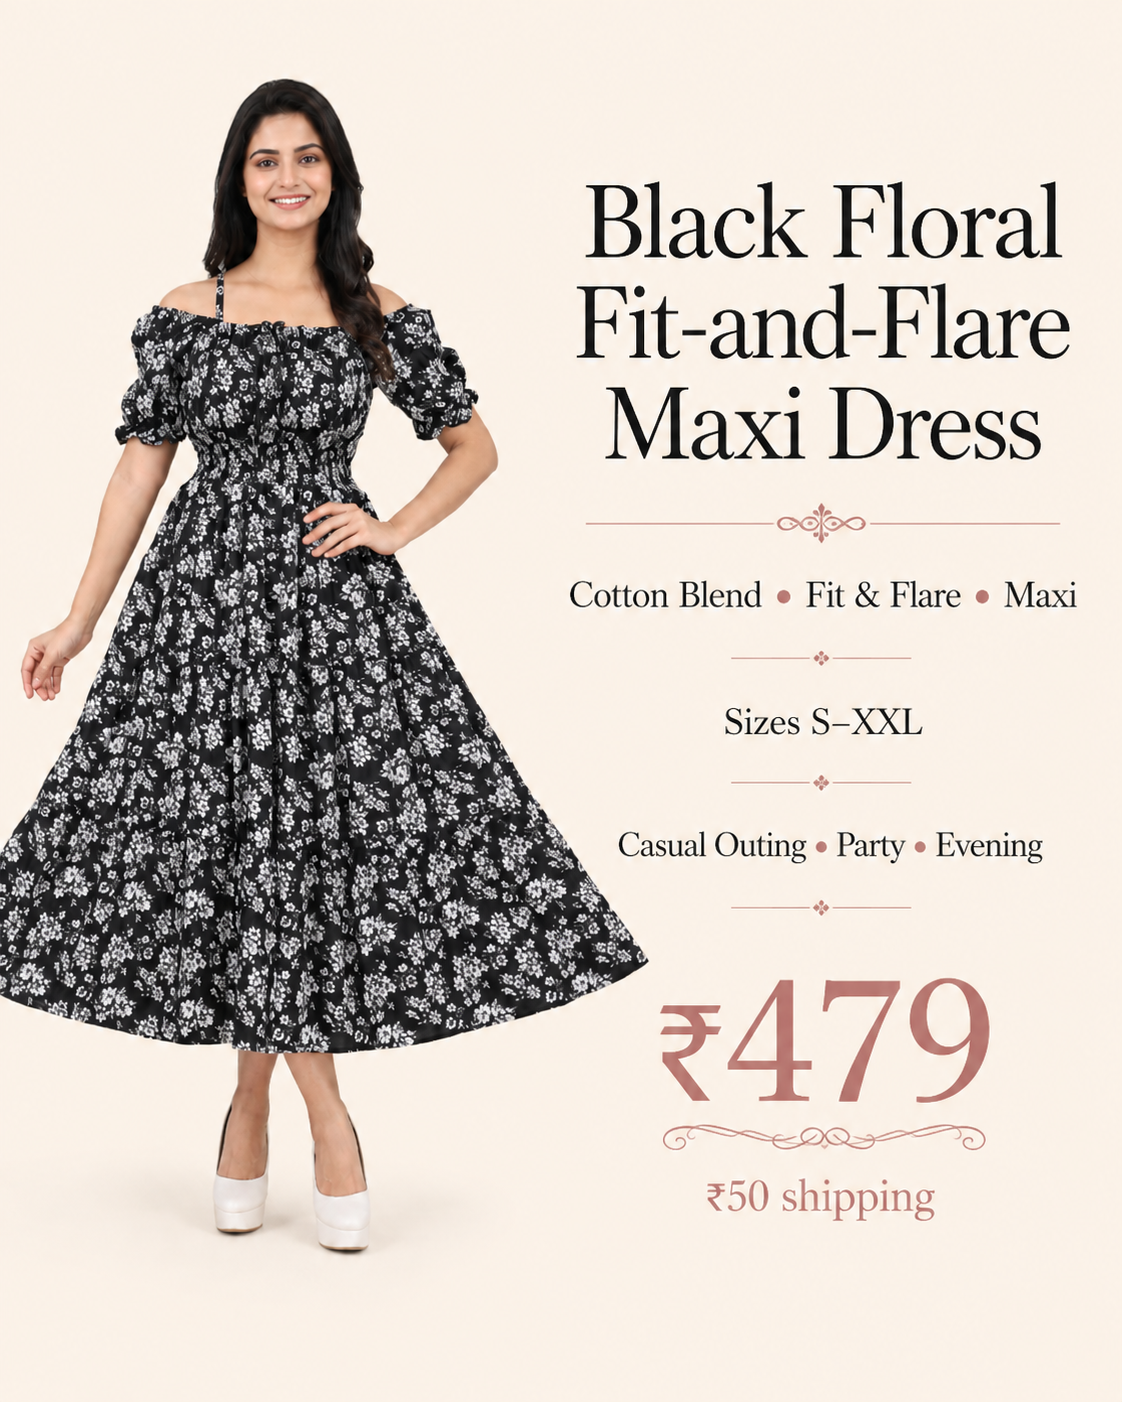
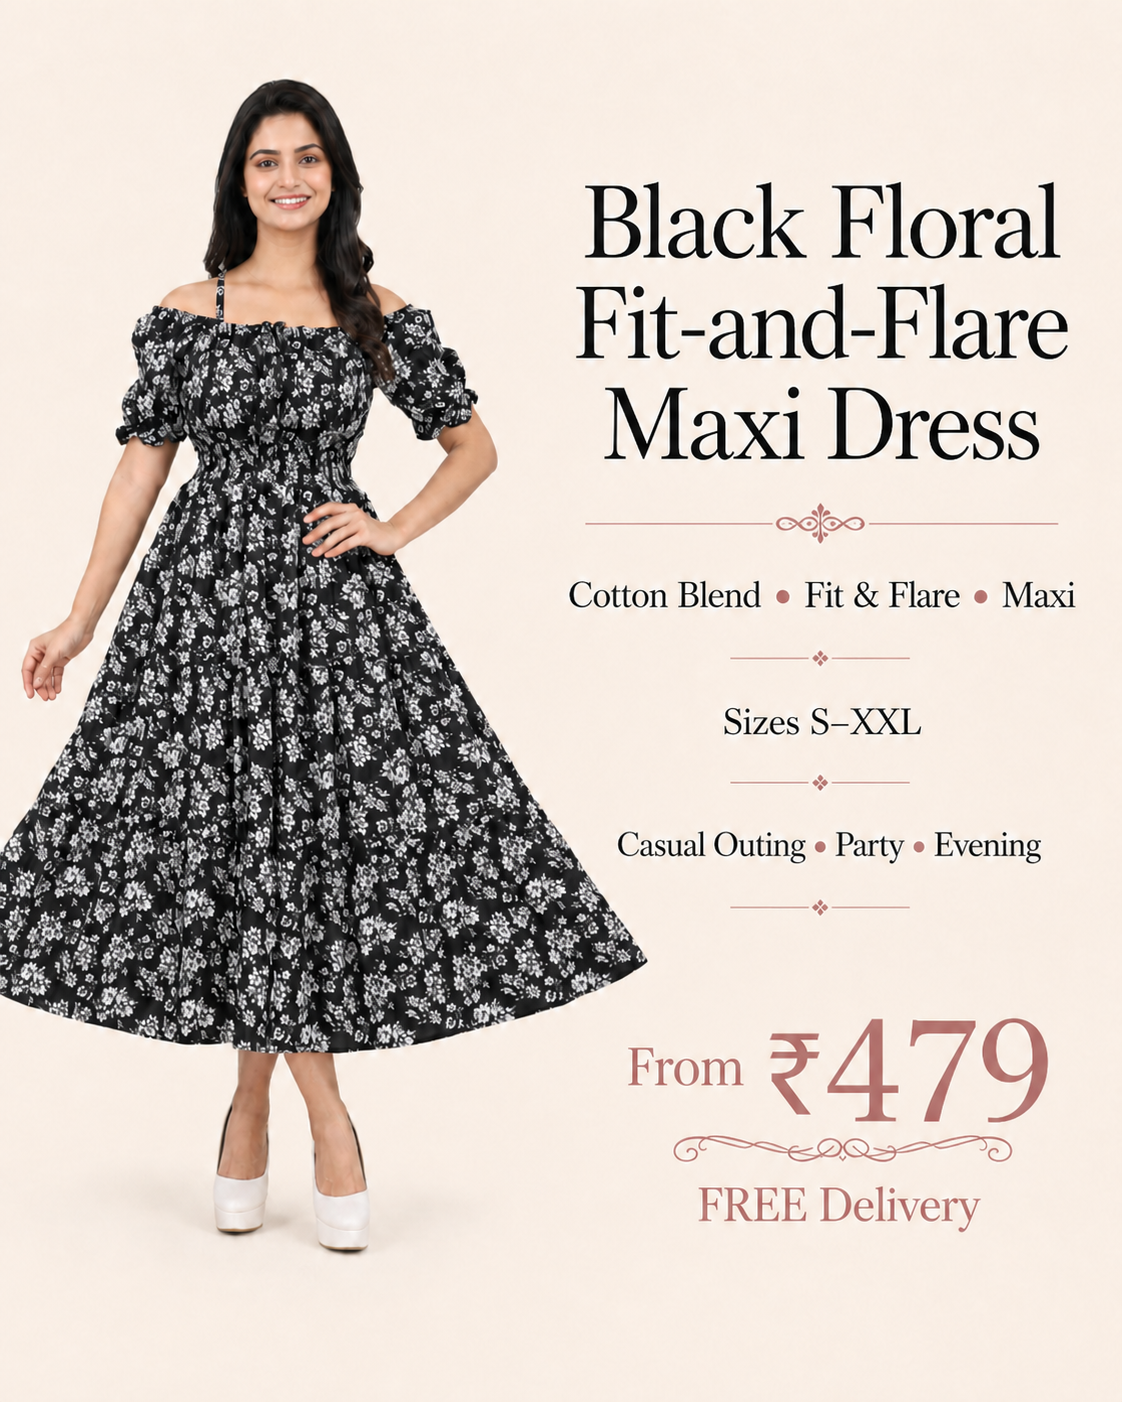
Verify Product 8 source and size pricing

diff --git a/lib/products.ts b/lib/products.ts
@@ -10,7 +10,7 @@ export const products:Product[]=[
 {id:"MSH-GWN-005",slug:"purple-sequin-embroidered-anarkali",name:"Purple Sequin-Embroidered Anarkali",category:"Gowns",collection:"Wedding & Festive",occasion:"Evening party",sellingPrice:832,images:imageSet("MSH-GWN-005"),sizes:["S","M","L","XL","XXL","3XL","4XL","5XL"],material:"Cotton Blend",colour:"Purple",description:"A generous ankle-length Anarkali with delicate sequin accents.",bestSeller:true},
 {id:"MSH-GWN-006",slug:"ivory-floral-rayon-flared-gown",name:"Ivory Floral Rayon Flared Gown",category:"Gowns",collection:"Day Occasion",occasion:"Brunch",sellingPrice:690,images:imageSet("MSH-GWN-006"),sizes:["S","M","L","XL","XXL","3XL","4XL","5XL"],material:"Rayon",colour:"Ivory",description:"A light floral gown with a sweeping ankle-length flare.",newArrival:true},
 {id:"MSH-WES-007",slug:"pink-tiered-georgette-maxi-dress",name:"Pink Tiered Georgette Maxi Dress",category:"Dresses",collection:"Party & Brunch",occasion:"Party / brunch",sellingPrice:676,images:imageSet("MSH-WES-007"),sizes:["S","M","L","XL","XXL"],variants:[{sku:"MSH-WES-007-S",size:"S",colour:"Pink floral",price:676,available:true},{sku:"MSH-WES-007-M",size:"M",colour:"Pink floral",price:676,available:true},{sku:"MSH-WES-007-L",size:"L",colour:"Pink floral",price:676,available:true},{sku:"MSH-WES-007-XL",size:"XL",colour:"Pink floral",price:676,available:true},{sku:"MSH-WES-007-XXL",size:"XXL",colour:"Pink floral",price:676,available:true}],material:"Georgette",colour:"Pink floral",description:"A pink floral georgette maxi dress with a square neckline, shirred bodice, short puff sleeves and tiered ruffle skirt.",featured:true,bestSeller:true},
-{id:"MSH-WES-008",slug:"black-floral-fit-and-flare-maxi-dress",name:"Black Floral Fit-and-Flare Maxi Dress",category:"Dresses",collection:"Casual Western",occasion:"Evening",sellingPrice:679,images:imageSet("MSH-WES-008"),sizes:["S","M","L","XL","XXL"],material:"Cotton Blend",colour:"Black",description:"A fitted bodice and flowing floral skirt for casual plans and parties.",bestSeller:true},
+{id:"MSH-WES-008",slug:"black-floral-fit-and-flare-maxi-dress",name:"Black Floral Fit-and-Flare Maxi Dress",category:"Dresses",collection:"Casual Western",occasion:"Casual / party",sellingPrice:479,images:imageSet("MSH-WES-008"),sizes:["S","M","L","XL","XXL"],variants:[{sku:"MSH-WES-008-S",size:"S",colour:"Black with white floral print",price:489,available:true},{sku:"MSH-WES-008-M",size:"M",colour:"Black with white floral print",price:479,available:true},{sku:"MSH-WES-008-L",size:"L",colour:"Black with white floral print",price:489,available:true},{sku:"MSH-WES-008-XL",size:"XL",colour:"Black with white floral print",price:489,available:true},{sku:"MSH-WES-008-XXL",size:"XXL",colour:"Black with white floral print",price:489,available:true}],material:"Cotton Blend",colour:"Black with white floral print",description:"A black cotton-blend fit-and-flare maxi with tiny white florals, slim straps, an off-shoulder gathered neckline, short puff sleeves and a smocked waist.",bestSeller:true},
 {id:"MSH-WES-009",slug:"white-floral-puff-sleeve-mini-dress",name:"White Floral Puff-Sleeve Mini Dress",category:"Dresses",collection:"College & Casual",occasion:"Casual party",sellingPrice:758,images:imageSet("MSH-WES-009"),sizes:["S","M","L","XL"],material:"Rayon",colour:"White",description:"A playful floral mini with puff sleeves and a softly flared shape.",newArrival:true},
 {id:"MSH-WES-010",slug:"lemon-yellow-bodycon-midi-dress",name:"Lemon Yellow Bodycon Midi Dress",category:"Dresses",collection:"Evening Party",occasion:"Date night",sellingPrice:837,images:imageSet("MSH-WES-010"),sizes:["XS","S","M","L","XL"],material:"Lycra",colour:"Lemon Yellow",description:"A clean bodycon midi with a square neckline and front slit."},
 {id:"MSH-EXP-011",slug:"sky-blue-cotton-kurta-pant-set",name:"Sky Blue Cotton Kurta & Pant Set",category:"Kurta Sets",collection:"Everyday Ethnic",occasion:"Office edit",sellingPrice:685,images:imageSet("MSH-EXP-011"),sizes:["M","L","XL","XXL","3XL"],material:"Cotton",colour:"Sky Blue",description:"A breathable sky-blue cotton kurta and pant pairing for everyday office, college and casual wear.",newArrival:true},

diff --git a/lib/internal-pricing.server.ts b/lib/internal-pricing.server.ts
@@ -15,7 +15,9 @@ export const sourceCostsBySku: Record<string, number> = {
   "MSH-GWN-005": 632, "MSH-GWN-006": 490,
   "MSH-WES-007-S": 476, "MSH-WES-007-M": 476, "MSH-WES-007-L": 476,
   "MSH-WES-007-XL": 476, "MSH-WES-007-XXL": 476,
-  "MSH-WES-008": 479, "MSH-WES-009": 558, "MSH-WES-010": 637,
+  "MSH-WES-008-S": 289, "MSH-WES-008-M": 279, "MSH-WES-008-L": 289,
+  "MSH-WES-008-XL": 289, "MSH-WES-008-XXL": 289,
+  "MSH-WES-009": 558, "MSH-WES-010": 637,
   "MSH-EXP-011": 485, "MSH-EXP-012": 588, "MSH-EXP-013": 526, "MSH-EXP-014": 679,
   "MSH-EXP-016-XS": 480, "MSH-EXP-016-S": 490, "MSH-EXP-016-M": 490,
   "MSH-EXP-016-L": 490, "MSH-EXP-016-XL": 490, "MSH-EXP-016-XXL": 490, "MSH-EXP-016-XXXL": 490,

diff --git a/data/catalogue-changelog.md b/data/catalogue-changelog.md
@@ -1,5 +1,13 @@
 # Catalogue changelog
 
+## 2026-08-31 — Product 8 exact source verified
+
+- Matched MSH-WES-008 to the current Meesho listing `/p/71w5ym`. Source-image comparison confirmed the black cotton-blend fabric with tiny white florals, slim straps, off-shoulder gathered neckline, short puff sleeves, smocked waist and full maxi flare.
+- Captured seller `DULHAN SAREE`, 4.2 product rating, 11,114 reviews, 7-day returns and active S–XXL availability. Source prices are ₹279 for M and ₹289 for S/L/XL/XXL; retail prices are ₹479 and ₹489 respectively under the source-plus-₹200 rule.
+- Replaced the stale information card that showed ₹479 as a single price and ₹50 shipping with `From ₹479` and `FREE Delivery`.
+- Local browser QA passed: M displayed ₹479, S displayed and added at ₹489, the cart total remained ₹489 with FREE delivery, and COD was selected at checkout. A 390px check showed no page-level horizontal overflow and zero broken images.
+- Product 8 is marked `Approved`; production and Meta readiness remain blocked until staged database deployment and live verification pass.
+
 ## 2026-08-31 — Product 10 source search logged
 
 - Reconfirmed MSH-WES-010 from its canonical image set as a solid lemon-yellow sleeveless bodycon midi/maxi dress with wide straps, a clean square neckline, side-waist ruching, and an asymmetric front wrap slit.
